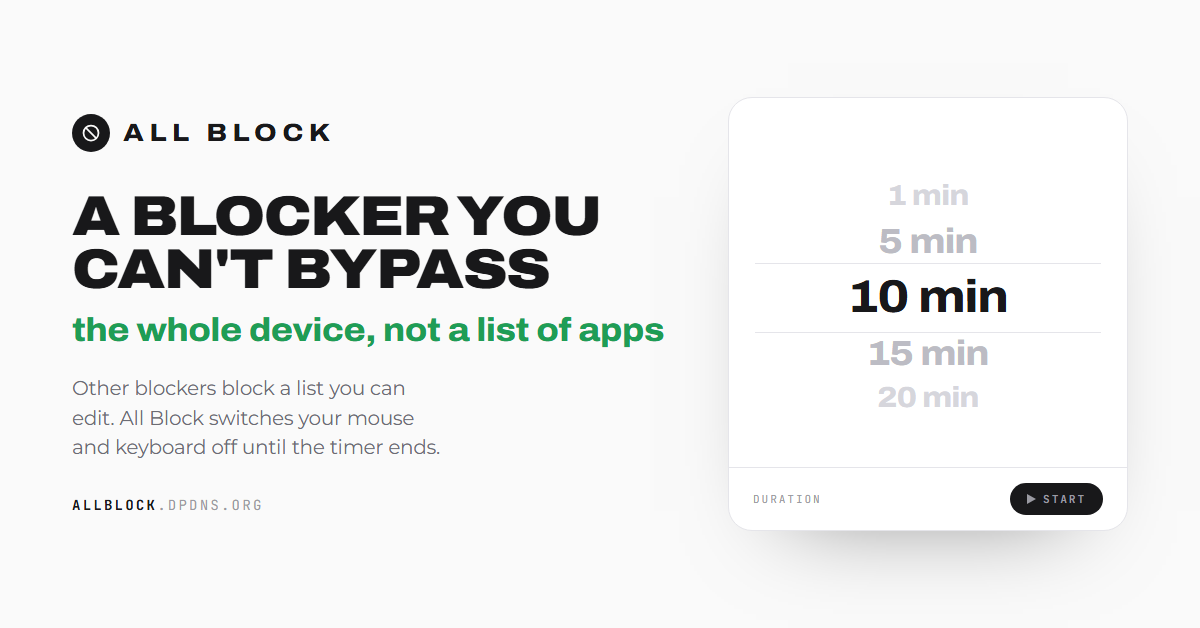
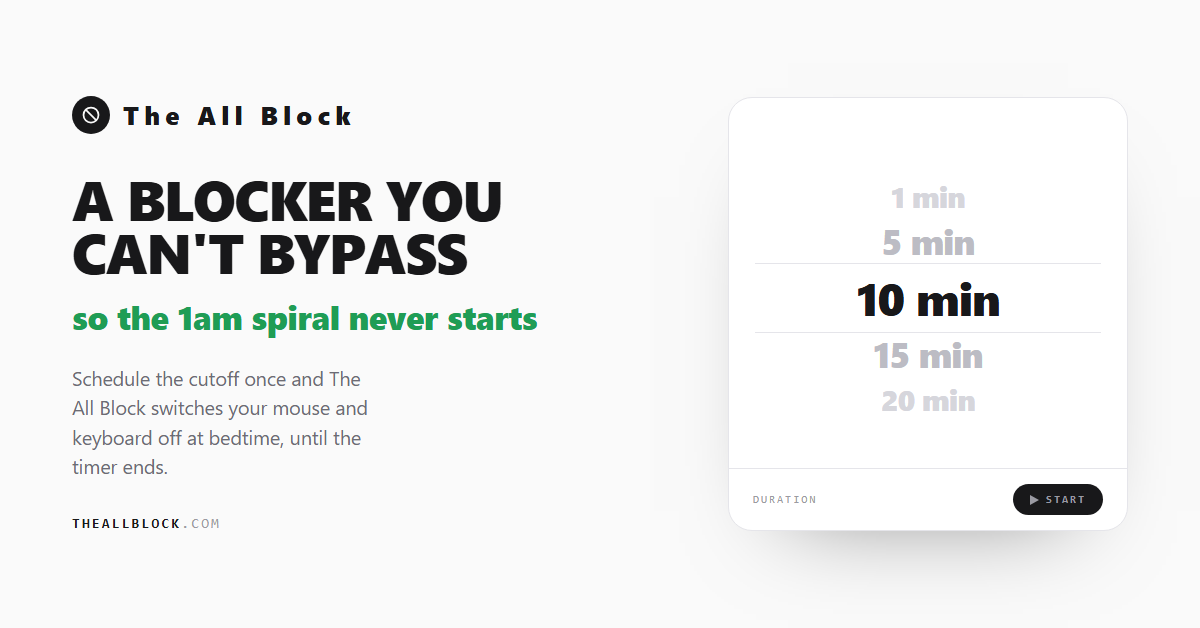
Update site to v7.7.2, point og-card at theallblock.com
Download links and version badge now match the latest release; og-card
domain reference was still pointing at the old allblock.dpdns.org.

diff --git a/docs/index.html b/docs/index.html
@@ -623,7 +623,7 @@ footer a:hover{color:var(--ink);text-decoration:underline}
         <path d="M20 14.5A8.5 8.5 0 1 1 9.5 4a7 7 0 0 0 10.5 10.5Z"/>
       </svg>
     </button>
-    <a class="nav-cta" href="https://github.com/Auzeo/all-block/releases/latest/download/The.All.Block.v7.6.8.exe">Download</a>
+    <a class="nav-cta" href="https://github.com/Auzeo/all-block/releases/latest/download/The.All.Block.v7.7.2.exe">Download</a>
   </div>
 </nav>
 
@@ -650,13 +650,13 @@ footer a:hover{color:var(--ink);text-decoration:underline}
     </div>
 
     <div class="hero-say">
-      <p class="eyebrow">Windows &nbsp;·&nbsp; <b>v7.6.8</b></p>
+      <p class="eyebrow">Windows &nbsp;·&nbsp; <b>v7.7.2</b></p>
       <h1>A blocker you can't bypass<em>Your Keyboard and mouse, locked until the timer ends</em></h1>
       <p class="hero-sub">Start the timer — at bedtime, mid-game,
         mid-scroll, whenever you need it. <b>No clicking, no alt-tabbing,
         no negotiating your way back in</b> before then.</p>
       <div class="hero-cta">
-        <a class="btn" href="https://github.com/Auzeo/all-block/releases/latest/download/The.All.Block.v7.6.8.exe">
+        <a class="btn" href="https://github.com/Auzeo/all-block/releases/latest/download/The.All.Block.v7.7.2.exe">
           <svg width="17" height="17" viewBox="0 0 24 24" fill="none" stroke="currentColor" stroke-width="2.2" stroke-linecap="round" stroke-linejoin="round"><path d="M12 3v12"/><path d="M7 11l5 5 5-5"/><path d="M4 20h16"/></svg>
           Download for Windows
         </a>
@@ -1027,7 +1027,7 @@ footer a:hover{color:var(--ink);text-decoration:underline}
           <li><b>One</b> emergency unlock a month</li>
           <li>Survives restarts, full session history</li>
         </ul>
-        <a class="btn btn--ghost" href="https://github.com/Auzeo/all-block/releases/latest/download/The.All.Block.v7.6.8.exe">
+        <a class="btn btn--ghost" href="https://github.com/Auzeo/all-block/releases/latest/download/The.All.Block.v7.7.2.exe">
           Download The All Block
         </a>
       </div>
@@ -1044,7 +1044,7 @@ footer a:hover{color:var(--ink);text-decoration:underline}
           <li><b>Three</b> emergency unlocks a month</li>
           <li>Optional account keeps Pro across reinstalls</li>
         </ul>
-        <a class="btn" href="https://github.com/Auzeo/all-block/releases/latest/download/The.All.Block.v7.6.8.exe">
+        <a class="btn" href="https://github.com/Auzeo/all-block/releases/latest/download/The.All.Block.v7.7.2.exe">
           Get it in the app
         </a>
       </div>
@@ -1130,7 +1130,7 @@ footer a:hover{color:var(--ink);text-decoration:underline}
     <p class="rise">One file, one wheel, and a computer that finally knows how to
        say no. Free to download, nothing to cancel.</p>
     <div class="hero-cta rise">
-      <a class="btn" href="https://github.com/Auzeo/all-block/releases/latest/download/The.All.Block.v7.6.8.exe">
+      <a class="btn" href="https://github.com/Auzeo/all-block/releases/latest/download/The.All.Block.v7.7.2.exe">
         <svg width="17" height="17" viewBox="0 0 24 24" fill="none" stroke="currentColor" stroke-width="2.2" stroke-linecap="round" stroke-linejoin="round"><path d="M12 3v12"/><path d="M7 11l5 5 5-5"/><path d="M4 20h16"/></svg>
         Download The All Block
       </a>

diff --git a/docs/og-card.html b/docs/og-card.html
@@ -83,7 +83,7 @@ h1{font-family:var(--display);font-weight:900;font-size:56px;line-height:.95;
     <p class="sub">so the 1am spiral never starts</p>
     <p class="line">Schedule the cutoff once and The All Block switches your
        mouse and keyboard off at bedtime, until the timer ends.</p>
-    <p class="url"><b>allblock</b>.dpdns.org</p>
+    <p class="url"><b>theallblock</b>.com</p>
   </div>
 
   <div class="wheel">
